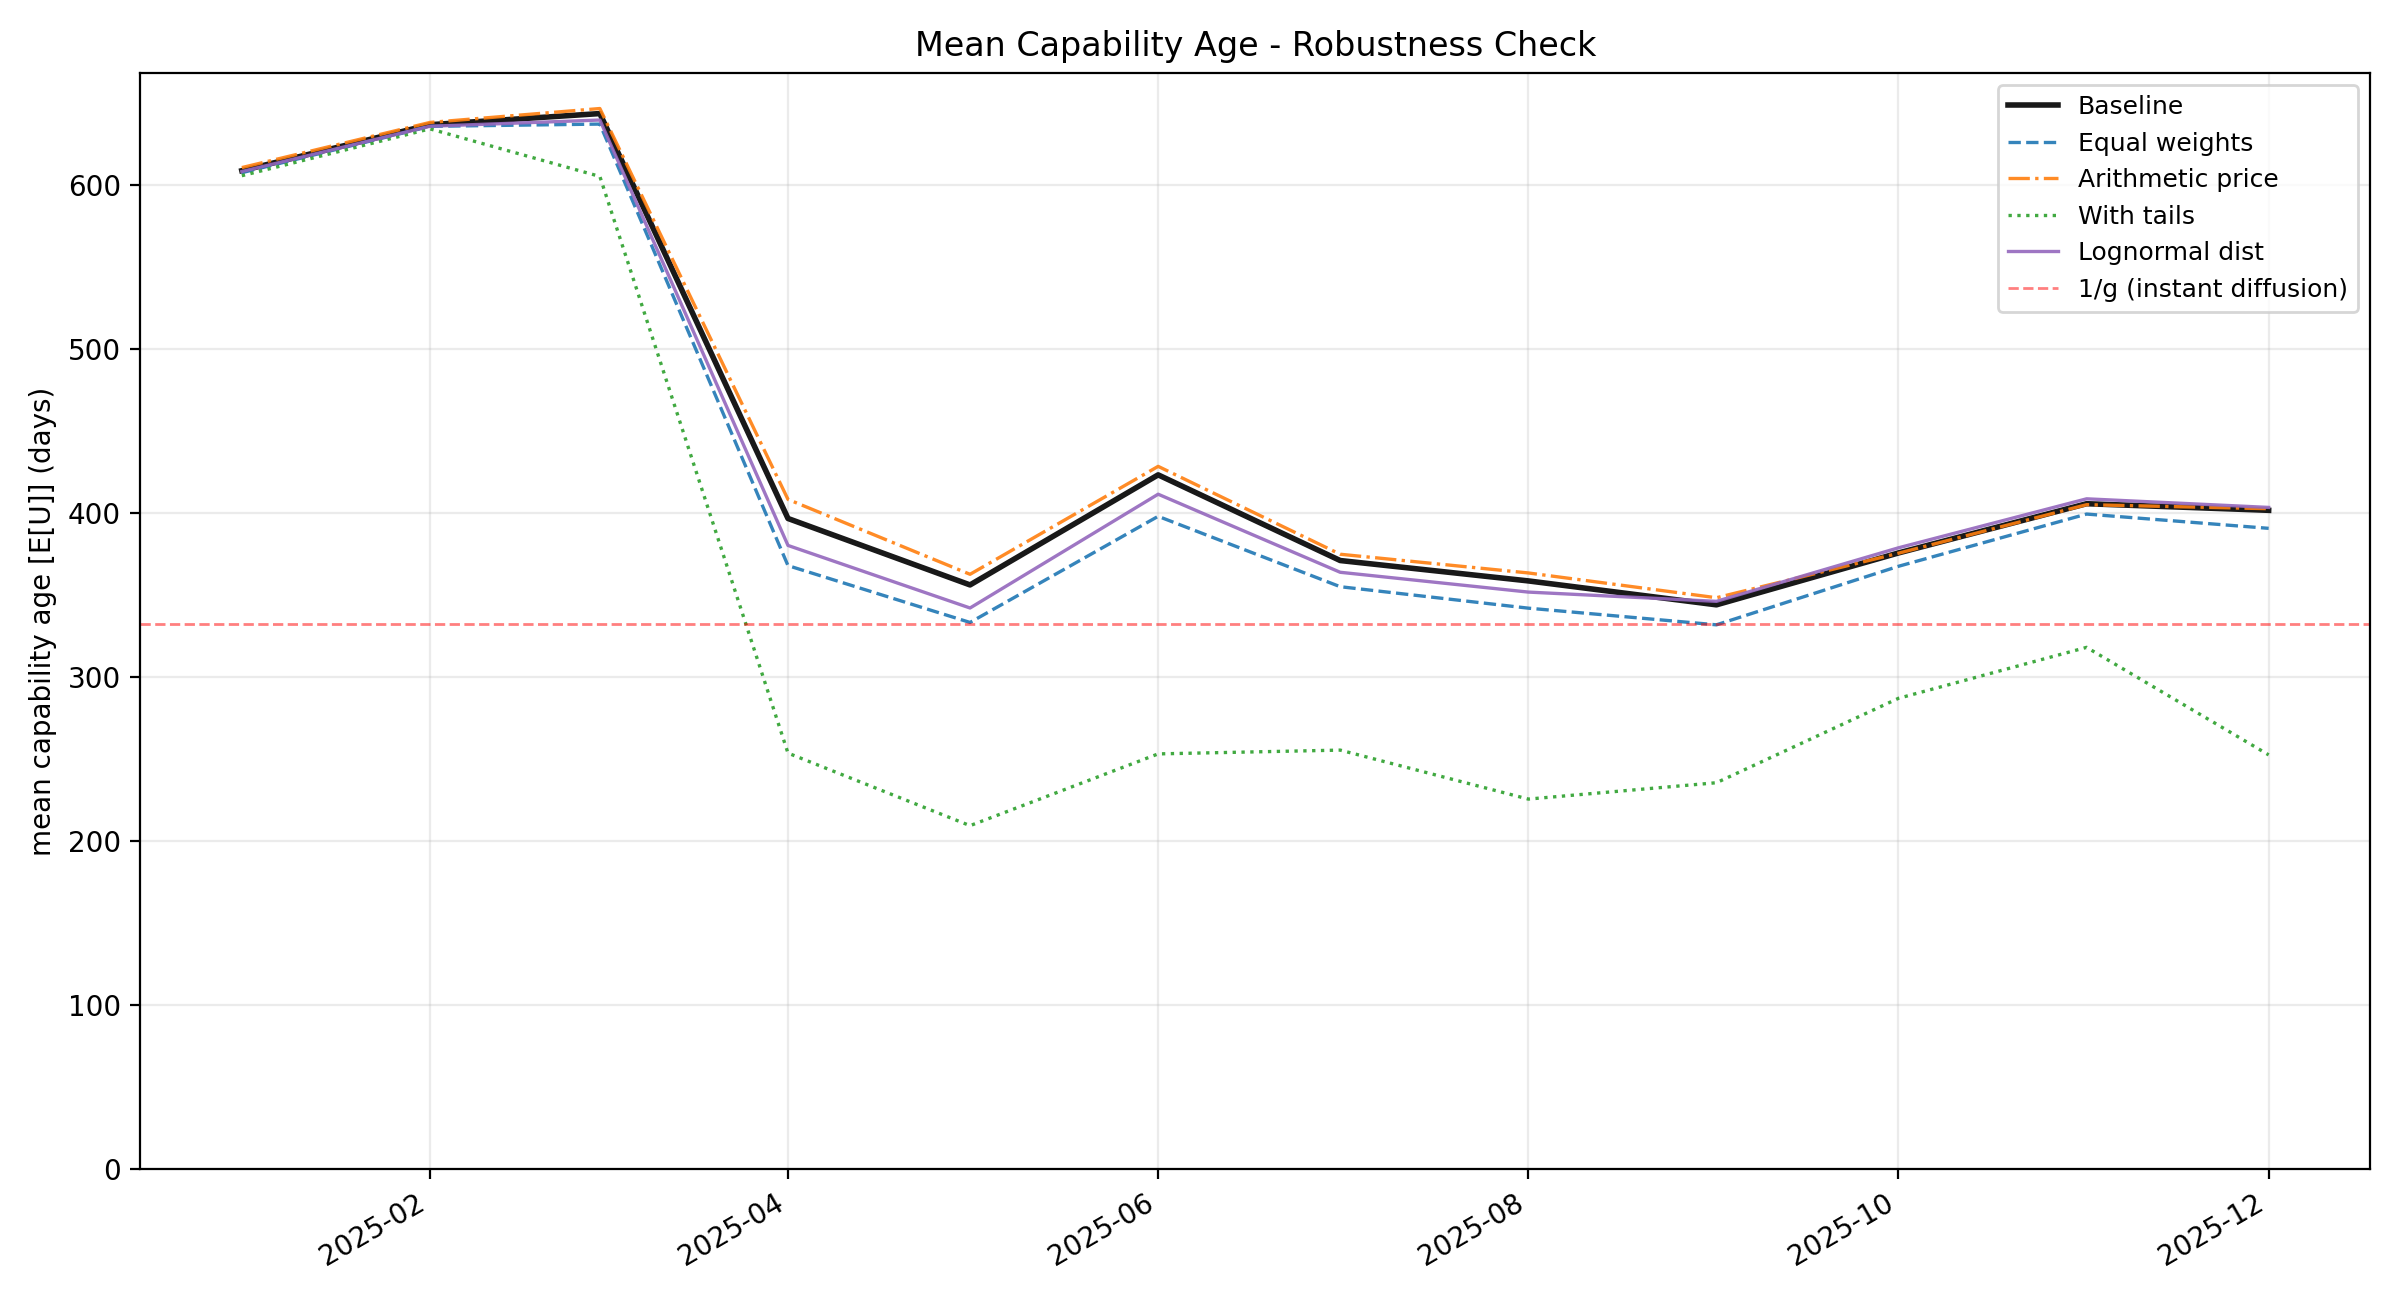
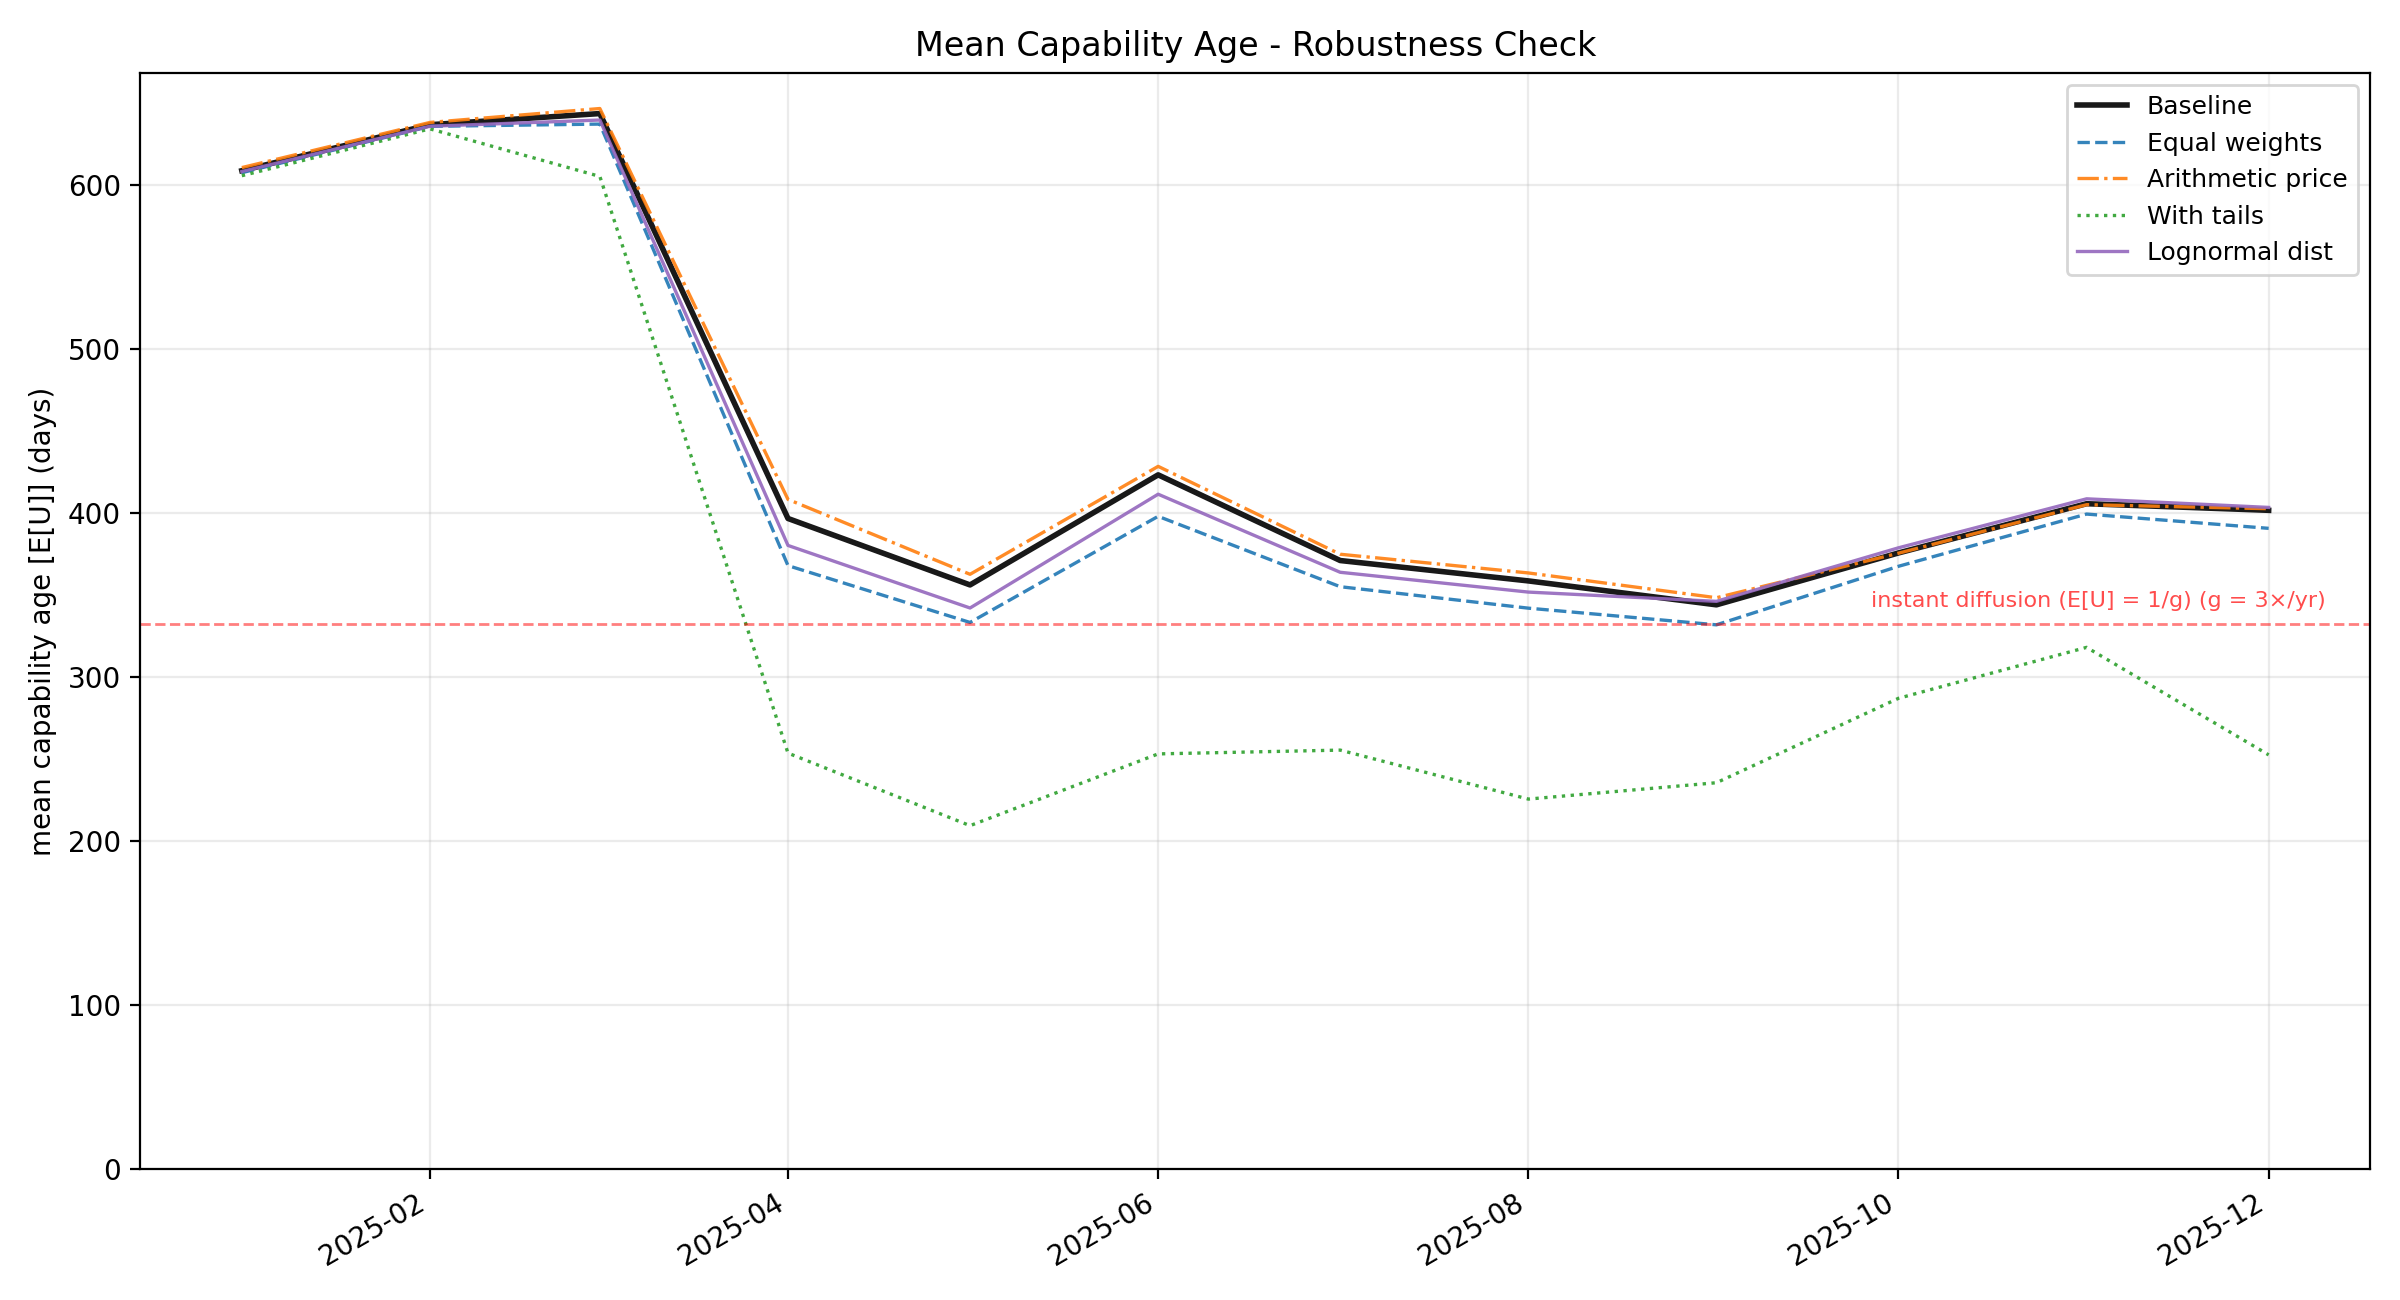
Label instant diffusion line directly instead of in legend
🤖 Generated with [Claude Code](https://claude.com/claude-code)

Changed region(s): [[0.8438, 0.0615, 1.0, 0.2462]]

diff --git a/plot_dollar_weighted_mean_capability_age.py b/plot_dollar_weighted_mean_capability_age.py
@@ -327,9 +327,12 @@ def _plot_robustness(
     ax.set_ylabel("mean capability age [E[U]] (days)")
     ax.set_ylim(bottom=0)
 
-    # Baseline for infinitely fast diffusion
+    # Baseline for infinitely fast diffusion (no legend entry, label on line)
     baseline_days = 365.25 / math.log(3)
-    ax.axhline(baseline_days, color="red", linestyle="--", linewidth=1.0, alpha=0.5, label="1/g (instant diffusion)")
+    ax.axhline(baseline_days, color="red", linestyle="--", linewidth=1.0, alpha=0.5)
+    ax.text(0.98, baseline_days + 8, "instant diffusion (E[U] = 1/g) (g = 3×/yr)",
+            transform=ax.get_yaxis_transform(), fontsize=8, color="red", alpha=0.7,
+            ha="right", va="bottom")
 
     ax.grid(True, alpha=0.25, linewidth=0.8)
     ax.legend(loc="upper right", frameon=True, fontsize=9)
